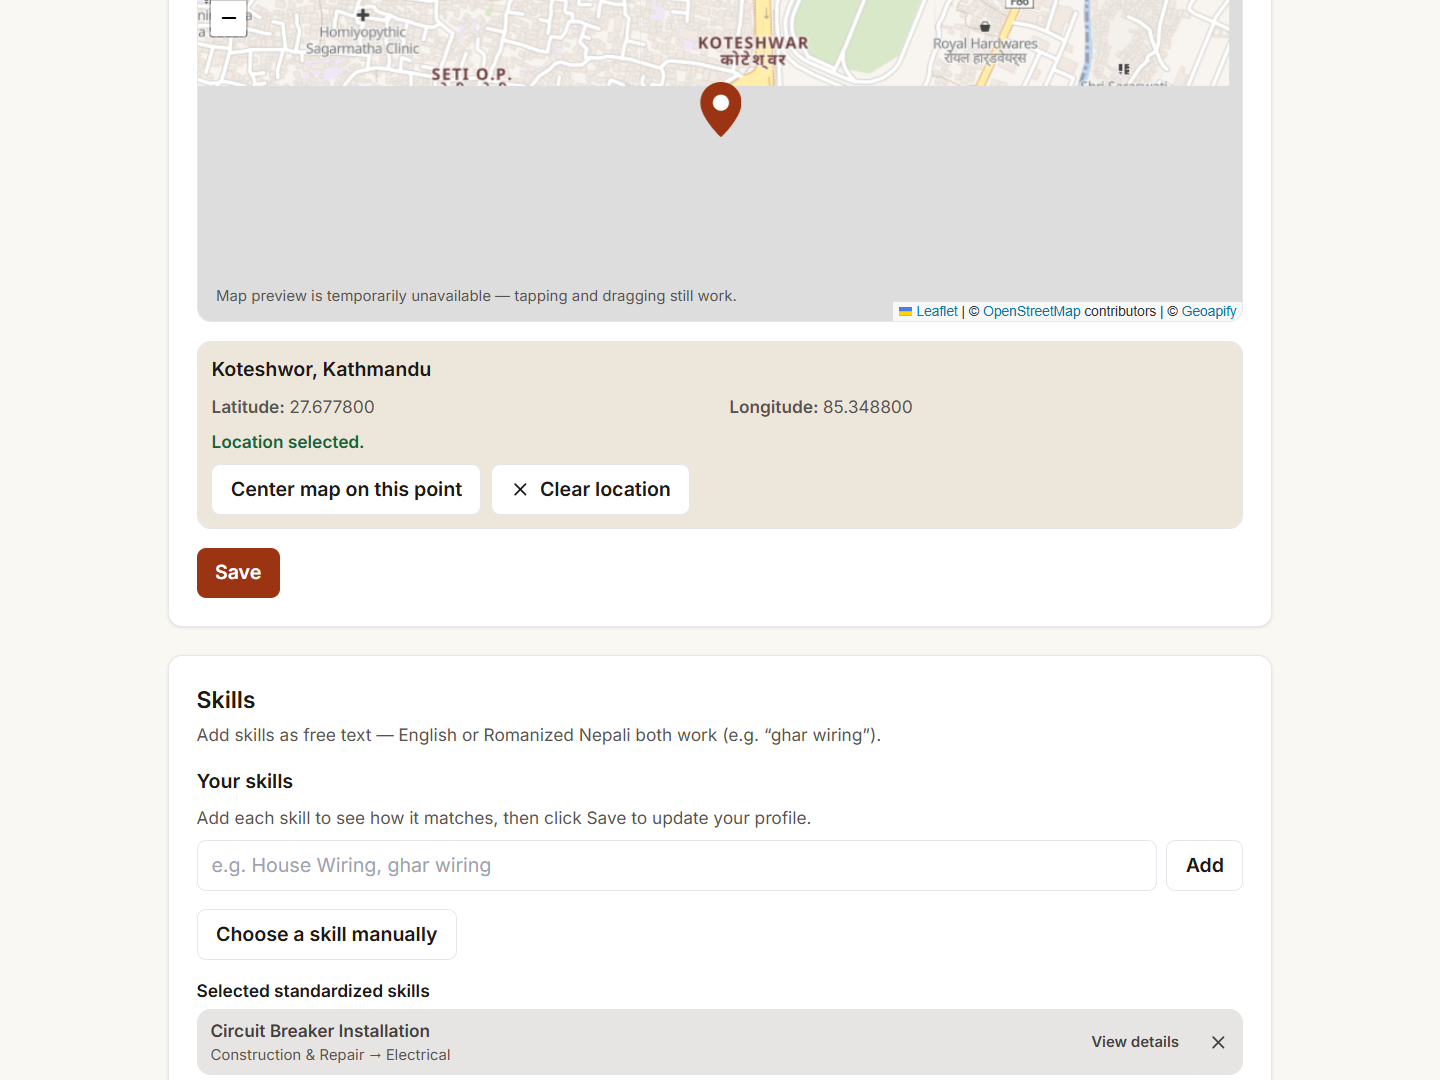
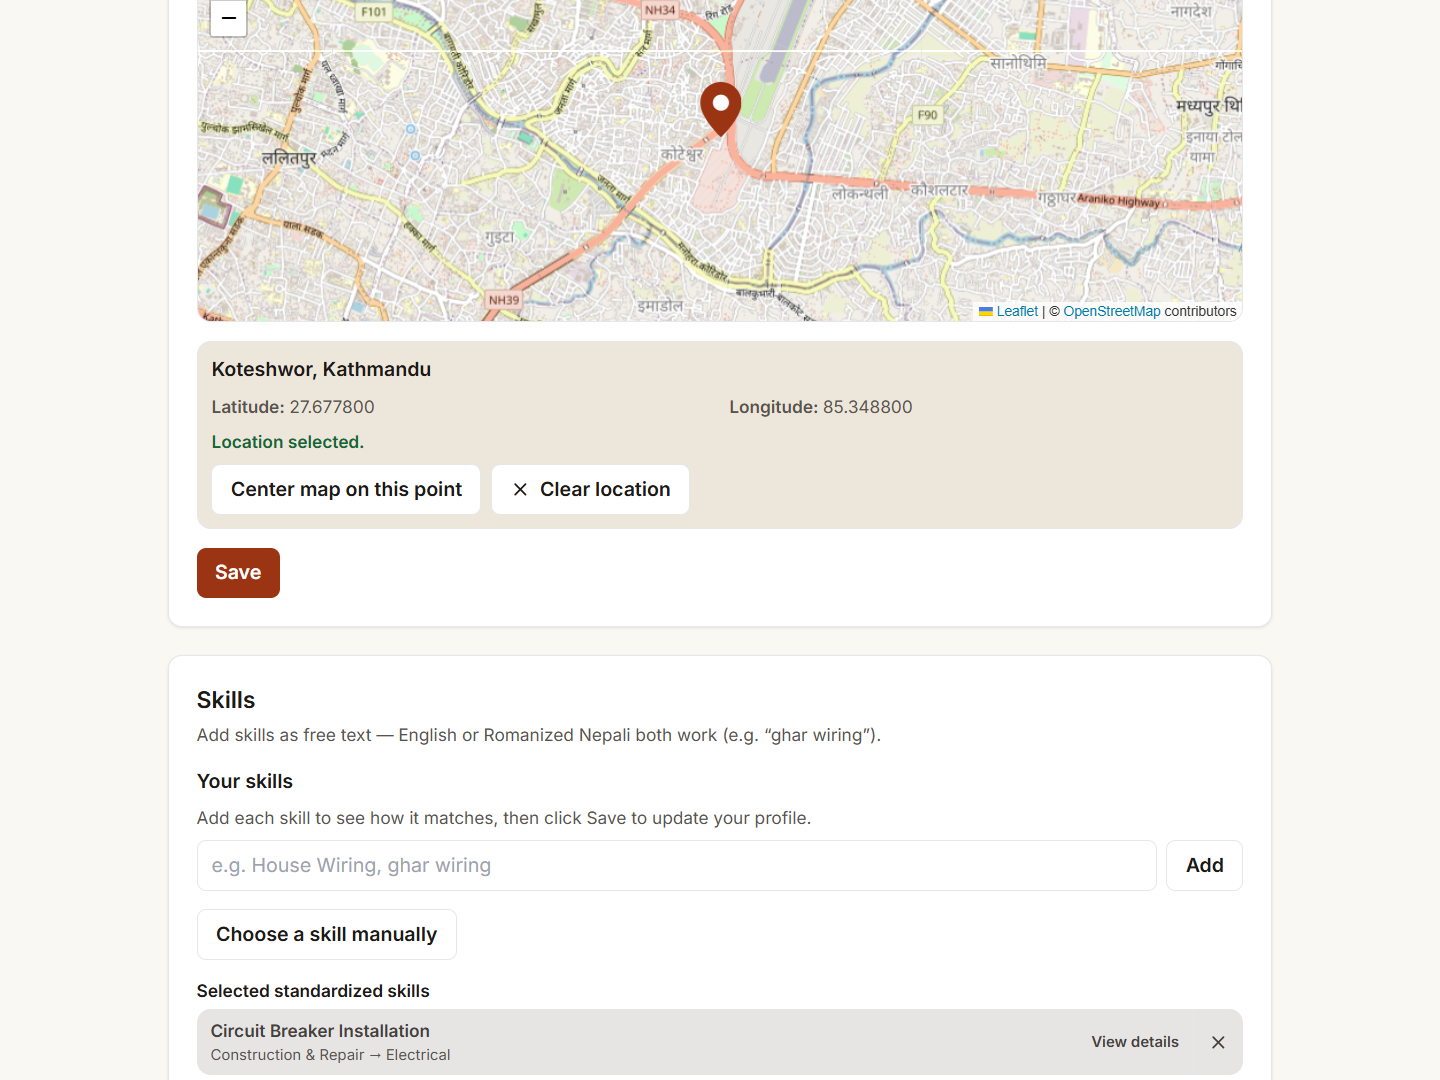
fix(location): save manual map selections

Changed region(s): [[0.125, 0.0, 0.875, 0.3056]]

diff --git a/frontend/src/components/shared/LocationPicker.tsx b/frontend/src/components/shared/LocationPicker.tsx
@@ -20,7 +20,18 @@ import type { LocationSearchResult, LocationValue } from '@/types/location'
 const SEARCH_DEBOUNCE_MS = 400
 const MIN_QUERY_LENGTH = 3
 const DEFAULT_ZOOM = 12
-const SELECTED_ZOOM = 16
+// Keep enough surrounding streets visible to orient the user and avoid
+// requesting an unnecessarily detailed tile set for a saved point.
+const SELECTED_ZOOM = 14
+const OPENSTREETMAP_TILE_URL = 'https://{s}.tile.openstreetmap.org/{z}/{x}/{y}.png'
+const OPENSTREETMAP_ATTRIBUTION = '&copy; <a href="https://www.openstreetmap.org/copyright">OpenStreetMap</a> contributors'
+const GEOAPIFY_ATTRIBUTION = `${OPENSTREETMAP_ATTRIBUTION} | &copy; <a href="https://www.geoapify.com/">Geoapify</a>`
+
+/** DRF stores profile/job coordinates with six decimal places. Leaflet map
+ * clicks and Geoapify results commonly contain more precision than that, so
+ * normalize before the value reaches form state rather than only rounding the
+ * number displayed in the summary. */
+const normalizeCoordinate = (coordinate: number) => Number(coordinate.toFixed(6))
 
 /**
  * Inline SVG pin (brand-primary #9a3412, matching --color-brand-primary)
@@ -83,6 +94,9 @@ export function LocationPicker({
   const [searchError, setSearchError] = useState<string | null>(null)
   const [isReverseGeocoding, setIsReverseGeocoding] = useState(false)
   const [reverseGeocodeError, setReverseGeocodeError] = useState<string | null>(null)
+  const [tileProvider, setTileProvider] = useState<'geoapify' | 'openstreetmap'>(() =>
+    geoapifyConfigured ? 'geoapify' : 'openstreetmap',
+  )
   const [tileError, setTileError] = useState(false)
   const [announcement, setAnnouncement] = useState('')
 
@@ -111,7 +125,9 @@ export function LocationPicker({
   )
 
   const commitPoint = useCallback(
-    (latitude: number, longitude: number) => {
+    (rawLatitude: number, rawLongitude: number) => {
+      const latitude = normalizeCoordinate(rawLatitude)
+      const longitude = normalizeCoordinate(rawLongitude)
       reverseAbortRef.current?.abort()
       const controller = new AbortController()
       reverseAbortRef.current = controller
@@ -166,7 +182,14 @@ export function LocationPicker({
     const container = map.getContainer()
     const observer = new ResizeObserver(() => map.invalidateSize())
     observer.observe(container)
-    return () => observer.disconnect()
+    const initialResize = window.setTimeout(() => map.invalidateSize(), 0)
+    const handleWindowResize = () => map.invalidateSize()
+    window.addEventListener('resize', handleWindowResize)
+    return () => {
+      observer.disconnect()
+      window.clearTimeout(initialResize)
+      window.removeEventListener('resize', handleWindowResize)
+    }
   }, [map])
 
   // --- debounced, cancellable search ----------------------------------
@@ -218,10 +241,12 @@ export function LocationPicker({
 
   const handleSelectResult = useCallback(
     (result: LocationSearchResult) => {
+      const latitude = normalizeCoordinate(result.latitude)
+      const longitude = normalizeCoordinate(result.longitude)
       onChange({
         address: result.formatted,
-        latitude: result.latitude,
-        longitude: result.longitude,
+        latitude,
+        longitude,
         placeId: result.placeId,
       })
       setQuery('')
@@ -229,7 +254,7 @@ export function LocationPicker({
       setSearchStatus('idle')
       setReverseGeocodeError(null)
       setAnnouncement(`Location selected: ${result.formatted}`)
-      flyToPoint(result.latitude, result.longitude)
+      flyToPoint(latitude, longitude)
       summaryHeadingRef.current?.focus()
     },
     [onChange, flyToPoint],
@@ -382,9 +407,22 @@ export function LocationPicker({
           ref={setMap}
         >
           <TileLayer
-            url={geoapifyTileUrl()}
-            attribution='&copy; <a href="https://www.openstreetmap.org/copyright">OpenStreetMap</a> contributors | &copy; <a href="https://www.geoapify.com/">Geoapify</a>'
-            eventHandlers={{ tileerror: () => setTileError(true) }}
+            key={tileProvider}
+            url={tileProvider === 'geoapify' ? geoapifyTileUrl() : OPENSTREETMAP_TILE_URL}
+            attribution={tileProvider === 'geoapify' ? GEOAPIFY_ATTRIBUTION : OPENSTREETMAP_ATTRIBUTION}
+            eventHandlers={{
+              load: () => setTileError(false),
+              tileerror: () => {
+                if (tileProvider === 'geoapify') {
+                  // A quota/auth/network failure must not leave a half-grey
+                  // map. Replace the whole layer with the public OSM tiles.
+                  setTileProvider('openstreetmap')
+                  setTileError(false)
+                } else {
+                  setTileError(true)
+                }
+              },
+            }}
           />
           {markerPosition && (
             <Marker

diff --git a/frontend/src/components/shared/LocationPicker.test.tsx b/frontend/src/components/shared/LocationPicker.test.tsx
@@ -65,6 +65,7 @@ describe('LocationPicker', () => {
     expect(screen.getByText('Koteshwor, Kathmandu')).toBeInTheDocument()
     expect(screen.getByText('27.677800', { exact: false })).toBeInTheDocument()
     expect(screen.getByText('85.348800', { exact: false })).toBeInTheDocument()
+    expect(screen.getByTestId('location-map')).toHaveAttribute('data-zoom', '14')
 
     await new Promise((resolve) => setTimeout(resolve, 50))
     expect(mockedReverseGeocode).not.toHaveBeenCalled()
@@ -177,6 +178,40 @@ describe('LocationPicker', () => {
     expect(mockedReverseGeocode).toHaveBeenCalledWith(27.7005, 85.301, expect.objectContaining({ signal: expect.anything() }))
   })
 
+  it('rounds a precise map click to the six decimal places accepted by the API', async () => {
+    mockedReverseGeocode.mockResolvedValue('Selected Street, Kathmandu')
+    const user = userEvent.setup()
+    render(<Harness />)
+
+    await user.click(screen.getByRole('button', { name: 'Simulate precise map click' }))
+
+    expect(await screen.findByText('Selected Street, Kathmandu')).toBeInTheDocument()
+    expect(screen.getByText('27.700512', { exact: false })).toBeInTheDocument()
+    expect(screen.getByText('85.301046', { exact: false })).toBeInTheDocument()
+    expect(mockedReverseGeocode).toHaveBeenCalledWith(
+      27.700512,
+      85.301046,
+      expect.objectContaining({ signal: expect.anything() }),
+    )
+  })
+
+  it('falls back to OpenStreetMap tiles instead of leaving a partially empty map', async () => {
+    vi.stubEnv('VITE_GEOAPIFY_API_KEY', 'test-key')
+    const user = userEvent.setup()
+    render(<Harness initialValue={SAVED_VALUE} />)
+
+    expect(screen.getByTestId('simulate-tile-error')).toHaveAttribute(
+      'data-url',
+      expect.stringContaining('maps.geoapify.com'),
+    )
+    await user.click(screen.getByTestId('simulate-tile-error'))
+    expect(screen.getByTestId('simulate-tile-error')).toHaveAttribute(
+      'data-url',
+      expect.stringContaining('tile.openstreetmap.org'),
+    )
+    expect(screen.queryByText(/map preview is temporarily unavailable/i)).not.toBeInTheDocument()
+  })
+
   it('keeps coordinates and falls back to a plain label when reverse geocoding fails', async () => {
     mockedReverseGeocode.mockRejectedValue(new Error('boom'))
     const user = userEvent.setup()
@@ -249,6 +284,10 @@ describe('LocationPicker', () => {
     expect(screen.getByText(/search is unavailable right now/i)).toBeInTheDocument()
     expect(screen.getByRole('button', { name: 'Use my current location' })).toBeInTheDocument()
     expect(screen.getByRole('button', { name: 'Simulate map click' })).toBeInTheDocument()
+    expect(screen.getByTestId('simulate-tile-error')).toHaveAttribute(
+      'data-url',
+      expect.stringContaining('tile.openstreetmap.org'),
+    )
   })
 
   it('has no automatically-detectable accessibility violations', async () => {

diff --git a/frontend/src/test/mocks/reactLeaflet.tsx b/frontend/src/test/mocks/reactLeaflet.tsx
@@ -11,6 +11,7 @@ import { useEffect, useRef, type ReactNode } from 'react'
  * manual acceptance test).
  */
 export const MOCK_CLICK_LATLNG = { lat: 27.7005, lng: 85.301 }
+const MOCK_PRECISE_CLICK_LATLNG = { lat: 27.700512345, lng: 85.301045678 }
 export const MOCK_DRAG_LATLNG = { lat: 27.71, lng: 85.31 }
 
 type ClickHandler = (event: { latlng: { lat: number; lng: number } }) => void
@@ -18,6 +19,7 @@ type ClickHandler = (event: { latlng: { lat: number; lng: number } }) => void
 interface MapContainerProps {
   children?: ReactNode
   ref?: (map: MockMap | null) => void
+  zoom?: number
   [key: string]: unknown
 }
 
@@ -32,7 +34,7 @@ interface MockMap {
   getContainer: () => HTMLElement | null
 }
 
-export function MapContainer({ children, ref: mapRef }: MapContainerProps) {
+export function MapContainer({ children, ref: mapRef, zoom }: MapContainerProps) {
   const containerRef = useRef<HTMLDivElement>(null)
   const clickHandlers = useRef(new Set<ClickHandler>())
 
@@ -57,7 +59,7 @@ export function MapContainer({ children, ref: mapRef }: MapContainerProps) {
   }, [])
 
   return (
-    <div ref={containerRef} data-testid="location-map">
+    <div ref={containerRef} data-testid="location-map" data-zoom={zoom}>
       {children}
       <button
         type="button"
@@ -65,13 +67,29 @@ export function MapContainer({ children, ref: mapRef }: MapContainerProps) {
       >
         Simulate map click
       </button>
+      <button
+        type="button"
+        onClick={() => clickHandlers.current.forEach((handler) => handler({ latlng: MOCK_PRECISE_CLICK_LATLNG }))}
+      >
+        Simulate precise map click
+      </button>
     </div>
   )
 }
 
-export function TileLayer(props: { eventHandlers?: { tileerror?: () => void } }) {
+export function TileLayer(props: {
+  url?: string
+  attribution?: string
+  eventHandlers?: { load?: () => void; tileerror?: () => void }
+}) {
   return (
-    <button type="button" data-testid="simulate-tile-error" onClick={() => props.eventHandlers?.tileerror?.()}>
+    <button
+      type="button"
+      data-testid="simulate-tile-error"
+      data-url={props.url}
+      data-attribution={props.attribution}
+      onClick={() => props.eventHandlers?.tileerror?.()}
+    >
       Simulate tile error
     </button>
   )

diff --git a/frontend/src/pages/worker/Profile.test.tsx b/frontend/src/pages/worker/Profile.test.tsx
@@ -81,7 +81,7 @@ describe('WorkerProfile', () => {
     expect(within(basicsForm).getByText('Saved')).toBeInTheDocument()
   })
 
-  it('submits address/latitude/longitude together for the Location section on map click', async () => {
+  it('submits rounded address/latitude/longitude together for a precise map click', async () => {
     const user = userEvent.setup()
     let capturedBody: unknown = null
 
@@ -92,14 +92,14 @@ describe('WorkerProfile', () => {
       http.patch(`${API_ROOT}/profiles/worker/me/`, async ({ request }) => {
         capturedBody = await request.json()
         return HttpResponse.json(
-          buildWorkerProfileFixture({ address: 'Baneshwor, Kathmandu, Nepal', latitude: '27.700500', longitude: '85.301000' }),
+          buildWorkerProfileFixture({ address: 'Baneshwor, Kathmandu, Nepal', latitude: '27.700512', longitude: '85.301046' }),
         )
       }),
     )
 
     renderWithProviders(<WorkerProfile />)
 
-    await user.click(await screen.findByRole('button', { name: 'Simulate map click' }))
+    await user.click(await screen.findByRole('button', { name: 'Simulate precise map click' }))
     await screen.findByText('Baneshwor, Kathmandu, Nepal')
 
     const locationForm = screen.getByText('Your usual work location').closest('form') as HTMLFormElement
@@ -108,8 +108,8 @@ describe('WorkerProfile', () => {
     await waitFor(() => {
       expect(capturedBody).toEqual({
         address: 'Baneshwor, Kathmandu, Nepal',
-        latitude: 27.7005,
-        longitude: 85.301,
+        latitude: 27.700512,
+        longitude: 85.301046,
       })
     })
     expect(within(locationForm).getByText('Saved')).toBeInTheDocument()
@@ -257,7 +257,8 @@ describe('WorkerProfile', () => {
 
     expect(screen.getByRole('list', { name: 'Your skills waiting to be saved' }))
       .toHaveTextContent('ghar wiring')
-    expect(screen.getByRole('status')).toHaveTextContent(
+    const skillsSection = screen.getByRole('heading', { name: 'Skills', exact: true }).closest('section') as HTMLElement
+    expect(within(skillsSection).getByRole('status')).toHaveTextContent(
       '1 skill is ready to save. Review the match shown above, then click Save.',
     )
   })

diff --git a/frontend/src/components/shared/JobForm.test.tsx b/frontend/src/components/shared/JobForm.test.tsx
@@ -354,9 +354,10 @@ describe('JobForm', () => {
 
       expect(screen.getByLabelText('Title')).toHaveValue(previousJob.title)
       expect(screen.getByLabelText('Description')).toHaveValue(previousJob.description)
-      expect(screen.getByLabelText('Address')).toHaveValue('Patan, Lalitpur')
-      expect(screen.getByLabelText('Latitude')).toHaveValue('27.683219')
-      expect(screen.getByLabelText('Longitude')).toHaveValue('85.327463')
+      const locationSection = screen.getByRole('heading', { name: 'Location', exact: true }).closest('section') as HTMLElement
+      expect(within(locationSection).getByText('Patan, Lalitpur')).toBeInTheDocument()
+      expect(within(locationSection).getByText('27.683219', { exact: false })).toBeInTheDocument()
+      expect(within(locationSection).getByText('85.327463', { exact: false })).toBeInTheDocument()
       expect(screen.getByLabelText('Wage type')).toHaveValue('DAILY')
       expect(screen.getByLabelText('Wage amount')).toHaveValue('1800.00')
       expect(screen.getByLabelText('Work type')).toHaveValue('ONE_TIME')
@@ -369,7 +370,8 @@ describe('JobForm', () => {
       expect(screen.getByLabelText('Preferred skills')).toHaveValue('')
       expect(screen.getByLabelText('Scheduled start')).toHaveValue('')
       expect(screen.getByLabelText('Application deadline')).toHaveValue('')
-      expect(screen.getByRole('status')).toHaveTextContent(
+      const duplicateSection = screen.getByRole('heading', { name: 'Duplicate Job', exact: true }).closest('section') as HTMLElement
+      expect(within(duplicateSection).getByRole('status')).toHaveTextContent(
         'Enter a new scheduled start and application deadline before publishing.',
       )
     })
